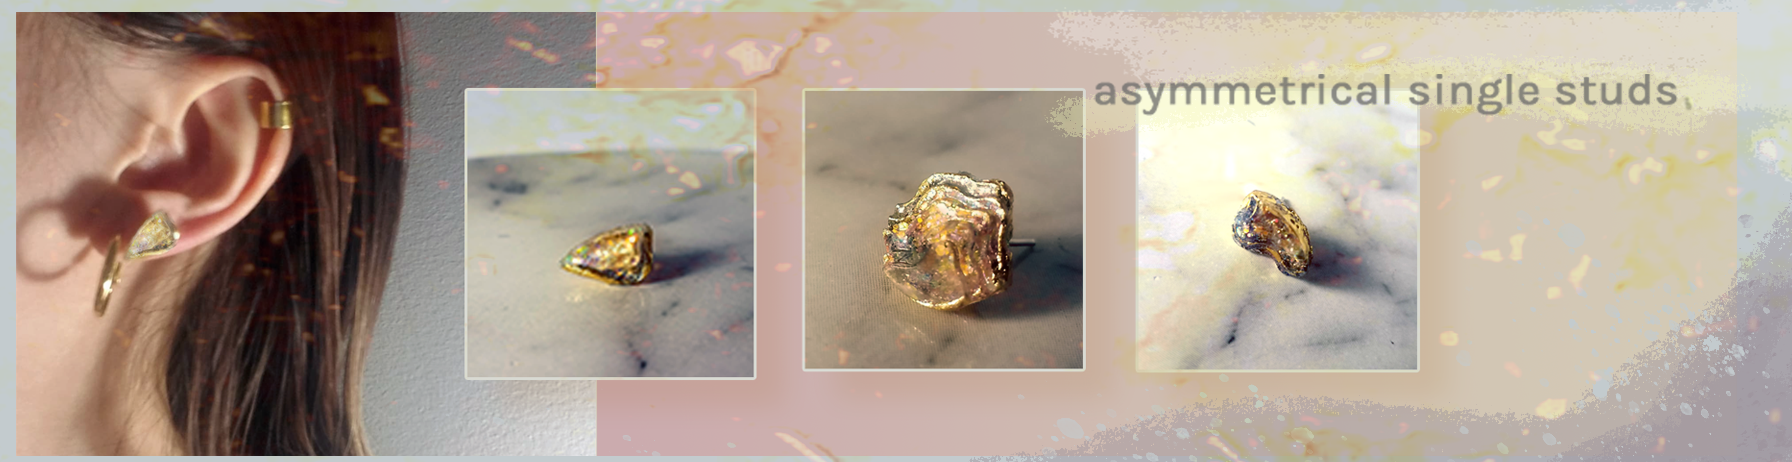
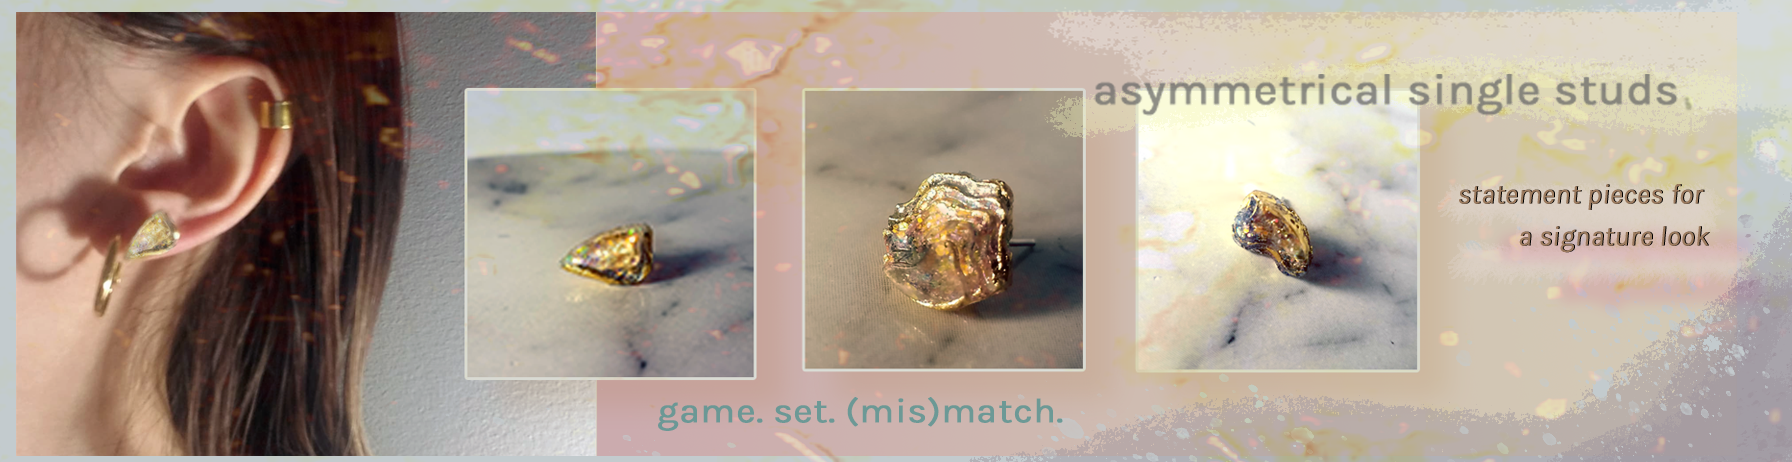
adsfasdfsdaf

Changed region(s): [[0.8125, 0.3939, 0.9688, 0.6061], [0.3438, 0.8485, 0.5938, 0.9394]]

diff --git a/style.css b/style.css
@@ -51,6 +51,7 @@ text-align: center;
   height: auto;
 }
 
+
 input#search-bar{
   margin: 5px auto;
   width: 100%;
@@ -59,17 +60,20 @@ input#search-bar{
   font-weight: 400;
   padding: auto;
   font-size: 13px;
-  border: 1px solid #00000075;
+  border: 1px solid #88858575;
   background-color:#ffffff;
   background-image: none;
-  outline: none;
+  
   &:focus{
-    border: 1px solid #008ABF;
-    transition: 0.35s ease;
+    border: 3px solid #000000;
+    transition: 0.5s ease;
     color: #008ABF;
+    
+ 
     &::-webkit-input-placeholder{
       transition: opacity 0.45s ease; 
-  	  opacity: 0;
+      opacity: 0;
+      
      }
     &::-moz-placeholder {
       transition: opacity 0.45s ease; 
@@ -1002,9 +1006,9 @@ float: right;
 
   #slideshow2 { 
 
-height: 250px;
+height: 240px;
 position: relative;
-width: 100%;
+
 margin-left: auto;
 margin-right: auto;
 margin-top: 90px;
@@ -1059,7 +1063,29 @@ background-image: white;
           
           }
 
-
+          .decorsplash3 { 
+            position: absolute;
+            left: 50%;
+            transform: translateX(-50%);
+                padding: auto;
+                background-size: 100%;
+                background-repeat: no-repeat;
+      
+            margin-top: 10px;
+                align-items: center;
+                padding-left: 100px;
+                padding-right: 100px;
+              width: 1020px;
+              height: 300px;
+                background-color: #d0dac786;
+                background-position:  0% 100%;
+                background-size: 100%;
+                color: #FFFFFF;
+                background-image: url(billboard7.png);
+                background-attachment: inherit;
+                
+                }
+      
           .shopsplash { 
             position: absolute;
             display: flex;
@@ -2241,7 +2267,30 @@ border: none;
               
               }
   
-
+        
+              .decorsplash3 { 
+                position: absolute;
+                left: 50%;
+                transform: translateX(-50%);
+                    padding: auto;
+                    background-size: 100%;
+                    background-repeat: no-repeat;
+          
+                margin-top: 10px;
+                    align-items: center;
+                    padding-left: 100px;
+                    padding-right: 100px;
+                  width: 510px;
+                  height: 250px;
+                    background-color: white;
+                    background-position:  0% 0%;
+                    background-size: 80%;
+                    color: #FFFFFF;
+                    background-image: url(billboard7.png);
+                    background-attachment: inherit;
+                    
+                    }
+        
               .jewelrysplash { 
                 position: absolute;
                 left: 50%;

diff --git a/shopindex.html b/shopindex.html
@@ -135,12 +135,12 @@
         <script>
           setInterval(function() { 
      $('#slideshow2 > div:first')
-       .fadeOut(4000)
+       .fadeOut(2500)
        .next()
-       .fadeIn(4000)
+       .fadeIn(2500)
        .end()
        .appendTo('#slideshow2');
-   },  3500);
+   },  2500);
    </script>
 
 

diff --git a/jewelry.html b/jewelry.html
@@ -160,12 +160,12 @@
 <script>
           setInterval(function() { 
      $('#slideshow2 > div:first')
-       .fadeOut(4000)
+       .fadeOut(4200)
        .next()
-       .fadeIn(4000)
+       .fadeIn(4200)
        .end()
        .appendTo('#slideshow2');
-   },  3500);
+   },  4000);
    </script>
 
 

diff --git a/wares.html b/wares.html
@@ -34,8 +34,8 @@
 
           <div id="slideshow2">
           <div class="decorsplash"></div>
-      
           <div class="decorsplash2"></div>
+          <div class="decorsplash3"></div>
         </div>
 
 
